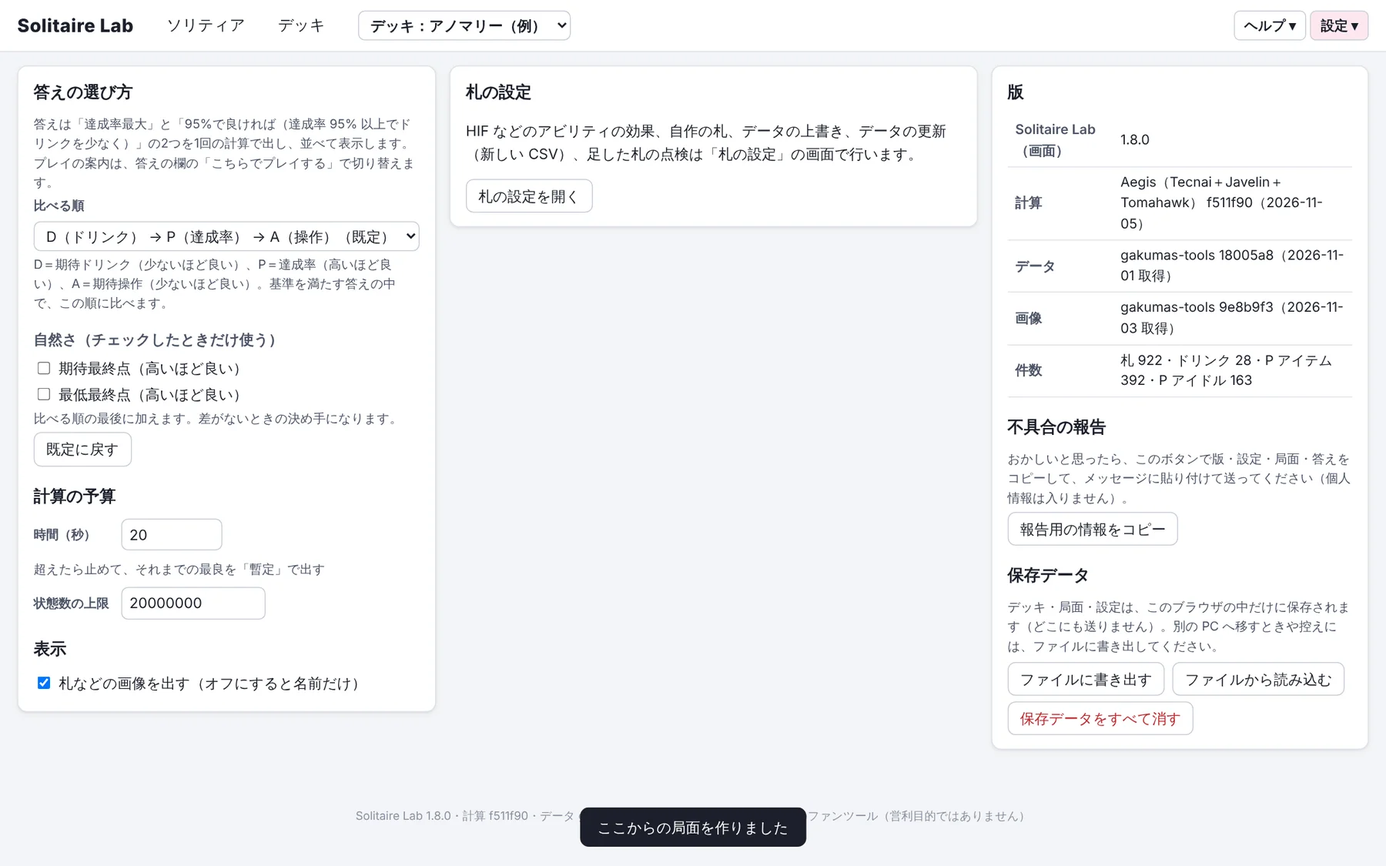
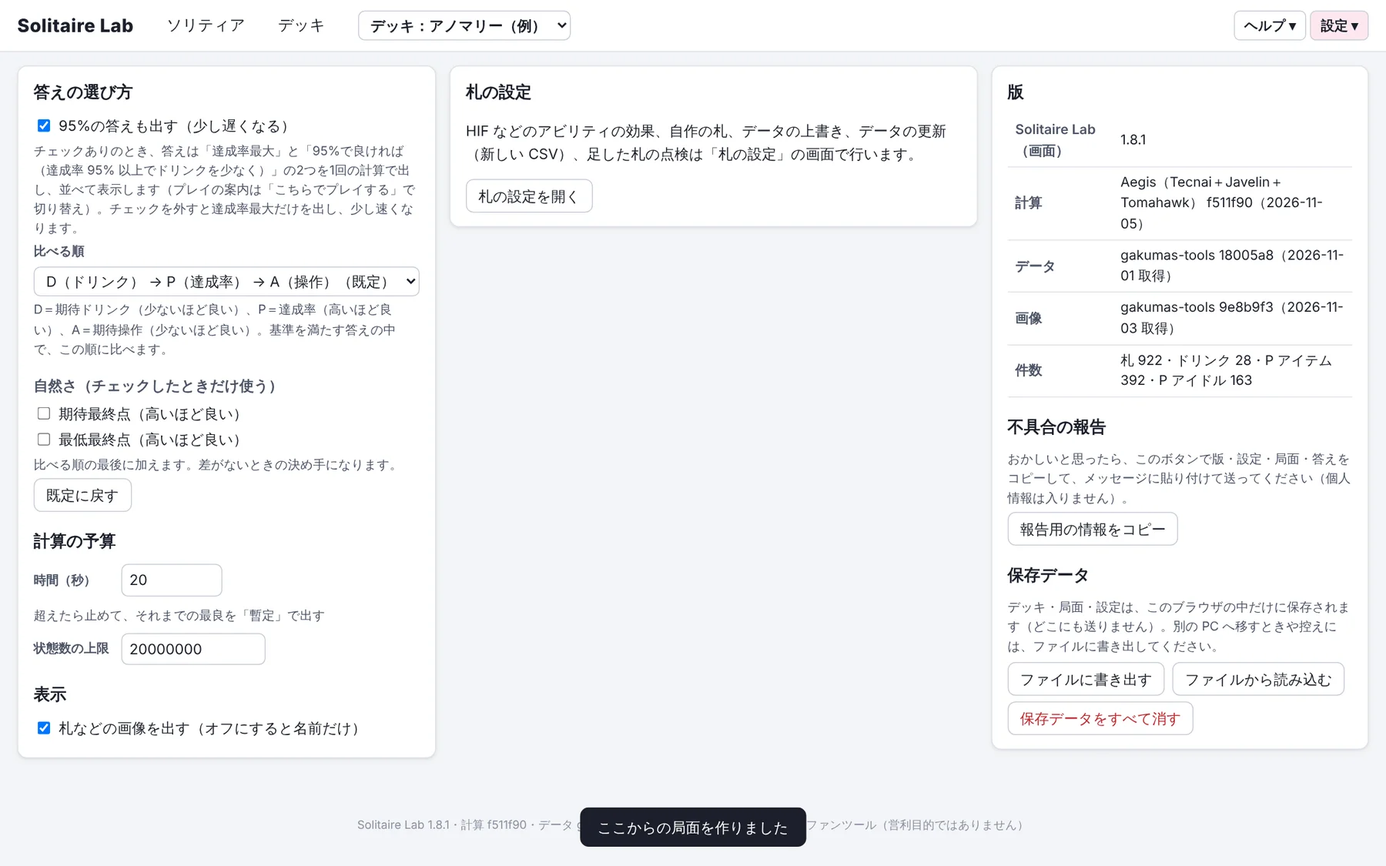
Solitaire Lab 1.8.1

Changed region(s): [[0.0, 0.1244, 0.3111, 0.8711], [0.5911, 0.9333, 0.7467, 0.9644], [0.2489, 0.9333, 0.4044, 0.9644]]

diff --git a/js/turn.js b/js/turn.js
@@ -63,7 +63,7 @@ export function renderTurn(root, rerender) {
     if (k === 'held') list.sort((a, b) => P.held.indexOf(a.uid) - P.held.indexOf(b.uid));
     const over = limit !== null && list.length > limit;
     const box = h('div.zone', {class: k + (over ? ' over' : '') + (!list.length && k !== 'hand' && k !== 'held' ? ' empty' : ''), 'data-zone': k},
-      h('div.zt', {}, h('b', title), h('span.cnt', {class: over ? 'bad' : ''}, limit !== null ? `${list.length} / ${limit}` : `${list.length}枚`), hint && h('span.hint', hint)),
+      h('div.zt', {}, h('b', title), h('span.cnt', {class: over ? 'bad' : ''}, limit !== null ? `${list.length} / ${limit}` : `${list.length}枚`), hint && qtip(hint)),
       h('div.zc', {}, list.length ? list.map(en => cardTile(en, {draggable: true, size, marks: marksFor(en), onclick: e => cardMenu(e, en)}))
         : h('span.drop', k === 'hand' ? '山札の札を押して「手札へ」、またはここへドラッグ' : 'ここへドラッグ')));
     box.addEventListener('dragover', e => { e.preventDefault(); box.classList.add('dragover'); });
@@ -134,7 +134,7 @@ export function renderTurn(root, rerender) {
         pt('確率100%で届く最大', r.sure, '引きが一番悪くても届く点'),
         pt('50%で届く最大', q50?.score ?? null, '達成率50%以上で届く一番高い点'),
         pt('最大', r.max, '一番よい引きのときに取れる点'),
-        h('span.hint', `${(r.ms / 1000).toFixed(1)}秒` + (r.exact ? '' : '・計算を絞った範囲での値（本当はこれ以上のことがある）'))),
+        h('span.hint', `${(r.ms / 1000).toFixed(1)}秒`, r.exact ? null : qtip('「以上」は、計算を絞った範囲での値という意味です（本当はこれより高いことがあります）'))),
       old && h('p.hint', '局面を変えました。この値は前の局面のものです。'),
       // 押して目標点に入れた値が、計算を絞った範囲の値（厳密でない）なら、その旨を出す。目標点を手で書き換えたら消える
       TT.picked && !TT.picked.exact && p.target === TT.picked.v && h('p.warnline.ttpicked', `目標点 ${TT.picked.v.toLocaleString('ja-JP')}点（${TT.picked.label}）は、計算を絞った範囲での値です。本当の値はこれより高いことがあります。`),
@@ -145,21 +145,19 @@ export function renderTurn(root, rerender) {
 
   // P アイテムの入力欄：デッキの P アイテムのうち、入力の要るもの（発動済みの回数・カウンタ。エンジンの pItemInputs）と、試作・未対応の注記があるものだけ出す
   function itemBox() {
-    let perUse = false;
     const rows = dk.items.map(id => {
       const it = D.items.find(x => x.id === id), inf = itemInputs(id);
       const st = (P.itemState[id] ||= {counter: 0, fired: []});
       const slots = inf ? inf.inputs.filter(x => x.key === 'fired') : it?.limit ? [{key: 'fired', max: it.limit}] : [];
       const hasCounter = inf ? inf.inputs.some(x => x.key === 'counter') : !!it?.counter;
       if (!slots.length && !hasCounter && !inf?.note && inf?.supported !== false) return null;
-      if (slots.some(x => x.enthusiasmBuffPerUse)) perUse = true;
       const setFired = (i, v) => { st.fired = slots.map((y, j) => j === i ? Math.max(0, Math.min(y.max, v ?? 0)) : firedOf(st, j, y.max)); delete st.remaining; touch(); };
       return h('div.itemrow', {}, pic('items', id, it?.name || '?', 32), h('span.inm', it?.name),
         slots.map((x, i) => num(slots.length > 1 ? `発動済みの回数（${i + 1}）` : '発動済みの回数', firedOf(st, i, x.max), v => setFired(i, v), {min: 0, max: x.max, width: 4, hint: '/' + x.max})),
         slots.length ? qtip('ソリティアを始めるまでに、この P アイテムの効果が発動した回数（上限まで発動したら、それ以上は発動しない）') : null,
         hasCounter && num('カウンタ', st.counter, v => { st.counter = v ?? 0; touch(); }, {min: 0, width: 4}),
         inf?.note && h('small.unsup', {title: inf.note}, '試作・未検証'),
-        slots.some(x => x.enthusiasmBuffPerUse) && firedOf(st, 0, slots[0].max) > 0 && h('small.hint', `発動した分（＋${Math.round(slots.reduce((a, x, i) => a + (x.enthusiasmBuffPerUse || 0) * firedOf(st, i, x.max), 0) * 100)}%）は、ゲームの熱意倍率の表示に入っています。計算では足しません`),
+        slots.some(x => x.enthusiasmBuffPerUse) && firedOf(st, 0, slots[0].max) > 0 && qtip(`発動した分（＋${Math.round(slots.reduce((a, x, i) => a + (x.enthusiasmBuffPerUse || 0) * firedOf(st, i, x.max), 0) * 100)}%）は、ゲームの熱意倍率の表示に入っています。計算では足しません`),
         inf && !inf.supported && h('small.unsup', '計算は未対応：' + (inf.problems[0] || '')));
     }).filter(Boolean);
     // ソリティアの前に使って、効果が残る札（奇跡を起こした一番星）：デッキにあるときだけ。使ったら、効果が働いた回数を入れる
@@ -183,9 +181,7 @@ export function renderTurn(root, rerender) {
     const stamina = dk.items.some(staminaTriggered);
     if (!rows.length && !stamina) return null;
     return h('div.items', {}, h('h4', rows.length > dk.items.length || pre.length ? 'P アイテム・札の効果' : 'P アイテム'), rows,
-      stamina && h('div.hudrow', {}, field('コストを0にする残り回数', 'nullifyCostCards'),
-        h('span.hint', 'ソリティアを始める前に全身全霊+ などを使ったときの、コスト（体力を含む）が0になる残りの回数。残りがある間は、体力が減ったときの効果が発動しません。')),
-      perUse && h('p.hint', '熱意倍率の欄には、ゲームの表示の値（発動済みの分の熱意倍率を含む）を入れてください。'));
+      stamina && h('div.hudrow', {}, field('コストを0にする残り回数', 'nullifyCostCards', {tip: 'ソリティアを始める前に全身全霊+ などを使ったときの、コスト（体力を含む）が0になる残りの回数。残りがある間は、体力が減ったときの効果が発動しません'})));
   }
 
   function moreBox() {
@@ -193,9 +189,8 @@ export function renderTurn(root, rerender) {
     return h('div.more', {},
       h('div.hudrow', {},
         h('label.hf', {}, h('span.sl', '直前の指針'), h('select', {onchange: e => setp('prevStance')(e.target.value)}, [['none', 'なし'], ...STANCES].map(([v, t]) => h('option', {value: v, selected: p.prevStance === v}, t)))),
-        field('スコア上昇', 'scoreBuff', {step: 5, pct: true}), field('残りターン', 'turnsRemaining'), field('ドリンクの上限', 'drinkCap'), field('ゲームの山札', 'gameDeckCount')),
+        field('スコア上昇', 'scoreBuff', {step: 5, pct: true}), field('残りターン', 'turnsRemaining'), field('ドリンクの上限', 'drinkCap', {tip: 'このソリティアで使ってよいドリンクの本数（空欄＝上限なし）'}), field('ゲームの山札', 'gameDeckCount', {tip: 'ゲームの画面の山札の枚数。入れると、振り分けた山札の枚数と照らし合わせます'})),
       h('div.hudrow', {}, field('温存の回数', 'preservationTimes'), field('強気の回数', 'strengthTimes'), field('のんびりの回数', 'leisureTimes'), field('札の効果での指針変更', 'directStanceTimes')),
-      h('p.hint', 'ドリンクの上限：このソリティアで使ってよい本数（空＝上限なし）。ゲームの山札：入れると、振り分けた山札の枚数と照らし合わせます。'),
       h('h4', '継続効果（使った札が残す効果）'),
       P.registered.map((r, i) => !D.cardById.get(r.card)?.registers?.limit && h('div.itemrow', {}, pic('cards', r.card, D.cardById.get(r.card)?.name || '?', 32), h('span.inm', D.cardById.get(r.card)?.name),
         num('カウンタ', r.counter, v => { r.counter = v ?? 0; touch(); }, {min: 0, width: 4, hint: '4なら次の札で発動'}),
@@ -234,12 +229,11 @@ export function renderTurn(root, rerender) {
   const piles = [['discard', '捨て札'], ['removed', '除外']].filter(([k]) => !isEmpty(k));
   const left = h('div.turnleft', {}, carry, hud,
     h('section.panel.board', {},
-      isEmpty('held') ? zoneBox('hand', '手札', {size: 'large', limit: 5}) : h('div.handrow', {}, zoneBox('hand', '手札', {size: 'large', limit: 5}), zoneBox('held', '保留', {size: 'small', limit: 2})),
-      !isEmpty('deck') && zoneBox('deck', '山札', {hint: '＝デッキ全体 − ほかの置き場（自動）。札を押して「手札へ」'}),
+      isEmpty('held') ? zoneBox('hand', '手札', {size: 'large', limit: 5, hint: '札を押すと置き場を選べます（キー 1:手札 2:保留 3:捨て札 4:除外 0:山札）。ドラッグでも動かせます'}) : h('div.handrow', {}, zoneBox('hand', '手札', {size: 'large', limit: 5, hint: '札を押すと置き場を選べます（キー 1:手札 2:保留 3:捨て札 4:除外 0:山札）。ドラッグでも動かせます'}), zoneBox('held', '保留', {size: 'small', limit: 2})),
+      !isEmpty('deck') && zoneBox('deck', '山札', {hint: '山札＝デッキ全体 − ほかの置き場（自動で数えます）。札を押して「手札へ」'}),
       piles.length ? h('div.pilerow', {class: piles.length === 1 ? 'one' : ''}, piles.map(([k, t]) => zoneBox(k, t))) : null,
       empties.length ? h('div.emptyzones', {}, h('span.sl', '空の置き場'), empties.map(([k, t]) => miniZone(k, t))) : null,
-      addBox,
-      h('p.hint', '札を押すと置き場を選べます（キー 1:手札 2:保留 3:捨て札 4:除外 0:山札）。ドラッグでも動かせます。')));
+      addBox));
   const right = h('aside.answer', {});
   renderAnswer(right, rerender);
   root.append(h('div.turn', {}, left, right));

diff --git a/js/answer.js b/js/answer.js
@@ -2,7 +2,7 @@
 // プレイの案内は同じ欄の中で進む（「使った」→「何を引いた？」→ 次の手）。比較表・自然さ・答えの確かさは「詳しく」にたたむ。
 import {D} from './data.js';
 import {S, save, deck, STANCES} from './store.js';
-import {h, pic, fmt, toast} from './ui.js';
+import {h, pic, fmt, toast, qtip} from './ui.js';
 import {RUN, startRun, cancelRun, betterThan, resumeRun, canResume, phaseSig} from './run.js';
 import {validate, entries, zoneOf} from './phase.js';
 import {STATUS, orderText, critText} from './result.js';
@@ -83,10 +83,9 @@ function nextView(R, interim) {
   const b = R.best;
   return h('div.nextv', {},
     h('div.nmain', {}, R.nextIcon ? pic(R.nextIcon.kind, R.nextIcon.id, R.next, 64) : null, h('div.ntext', R.next || '—')),
-    b && h('div.kpis', {}, kpi('達成率', b.pText), kpi('ドリンク', num3(b.dNum), '本'), kpi('手数', num3(b.aNum), '回')),
-    b && !interim && h('div.kpinote', 'ドリンク・手数は、引く札によって変わる数の見込み（平均）です。'));
+    b && h('div.kpis', {}, kpi('達成率', b.pText, '', '目標点に届く確率'), kpi('ドリンク', num3(b.dNum), '本', 'このあと使うドリンクの本数の見込み（引く札によって変わる数の平均）'), kpi('手数', num3(b.aNum), '回', 'このあと札やドリンクを使う回数の見込み（平均）')));
 }
-const kpi = (label, v, unit = '') => h('div.kpi', {}, h('div.kl', label), h('div.kv', v, h('small', unit)));
+const kpi = (label, v, unit = '', tip = '') => h('div.kpi', {}, h('div.kl', label, tip && qtip(tip)), h('div.kv', v, h('small', unit)));
 
 function resultView(R, rerender, {checkList} = {}) {
   // エンジンが「全体で最適とは証明できていない」と言うときは、最適と出さない（optimalityProven、AEGIS_SPEC.md 8章）
@@ -99,14 +98,15 @@ function resultView(R, rerender, {checkList} = {}) {
   add(h('div.ansHead', {}, h('span.status', {class: stCls, title: stDesc}, stName + (R.canceled ? '（中止）' : '')),
     h('span.hint', `${R.criterion === 'max' ? '達成率最大の答え' : `${R.criterion}%で良ければの答え`}・${(R.ms / 1000).toFixed(1)}秒`)));
   for (const n of R.notes || []) add(h('p.warnline', n));   // 計算の部品の注意書き
-  if (R.followed) add(h('p.hint', '前の局面の最適の答えから読み出しました（計算し直していません。答えは計算し直したときと同じです）。'));
-  if (R.keptPrev) add(h('p.hint', '予算を増やして計算し直しましたが、前の答えより良い答えは見つからなかったので、前の答えを残しました。'));
+  const tags = [R.followed && ['前の答えから即答', '前の局面の答えから読み出しました（計算し直していません。答えは計算し直したときと同じです）'],
+    R.retargeted && ['前の計算を使用', '同じ局面の前の計算を使って、目標・基準を変えた答えを出しました（答えは計算し直したときと同じです）'],
+    R.keptPrev && ['前の答えを残した', '予算を増やして計算し直しましたが、前の答えより良い答えは見つからなかったので、前の答えを残しました']].filter(Boolean);
+  if (tags.length) add(h('div.tags', {}, tags.map(([t, d]) => h('span.tag', {title: d}, t))));
   // 達成率を指定した計算（95% など）で、その達成率に届かない暫定の答え
   if (R.meetsAlpha === false && R.criterion !== 'max') add(h('p.warnline', `この答えは、指定した達成率 ${R.criterion}% に届いていません。時間内に見つかった中で一番よい手順です。「続きから計算する」で届く手順が見つかることがあります。`));
   const ms = R.maxScore;
   if (b && b.pNum === 0 && kind === 'optimal') add(h('p.warnline', '目標点に届く手順がありません（届く最大 0%）。' + (ms?.exact && !ms.reached ? `どう引いても、最大で ${fmt(ms.value)} 点です。` : '')));
   else if (ms?.exact && !ms.reached) add(h('p.hint', `どう打っても、取れる点は最大で ${fmt(ms.value)} 点です（目標点に届かない）。`));
-  if (R.retargeted) add(h('p.hint', '同じ局面の前の計算を使って、目標・基準を変えた答えを出しました（答えは計算し直したときと同じです）。'));
   // プレイの案内（同じ欄の中で進む）
   if (R.tree) {
     S.play ||= {steps: []};
@@ -120,7 +120,7 @@ function resultView(R, rerender, {checkList} = {}) {
         makeErr && h('p.warnline', '作れませんでした：' + makeErr));
     } else if (waiting) {
       add(h('div.lbl', '何を引きましたか？'),
-        h('p.hint', '使った後の手札（全部）です。色の枠が、ドロー札（新しく来た札）です。'),
+        h('p.hint', '使った後の手札（色の枠＝ドロー札）'),
         h('div.draws', node.edges.map((e, i) => h('button.drawbtn', {onclick: () => push({type: 'draw', i, label: drawnText(e.drawn)})},
           h('div.dpics', (e.hand || e.drawn).slice(0, 6).map(x => h('span.hcard', {class: x.isNew !== false ? 'new' : 'old'}, pic('cards', x.id, x.name, 34)))),
           h('b', drawnText(e.drawn)),
@@ -150,16 +150,14 @@ function resultView(R, rerender, {checkList} = {}) {
     // メモリの上限で止まり、試せる段も残っていない：時間を足しても良くならないので、計算し直すボタンは出さず、局面を軽くする方法を案内する
     const memStop = !R.resumable && /MEMORY_LIMIT|GROWTH_LIMIT/.test(R.resumeReason || '');
     if (memStop) { add(h('div.budget', {},
-      h('p.hint', {title: R.resumeReason}, 'これ以上計算しても、このブラウザでは答えを良くできません（使えるメモリの上限）。今の答えは、ここまでに見つかった一番よい手順です。'),
-      h('p.hint', '引いた札が決まったら「ここから局面を作る」で計算し直すと、最善の手が分かることがあります。「詳しい条件」でドリンクの上限を入れると、計算が軽くなります。'))); }
+      h('p.hint', 'このブラウザでは、これ以上良くできません（メモリの上限）', qtip('今の答えは、ここまでに見つかった一番よい手順です。引いた札が決まったら「ここから局面を作る」で計算し直すと、最善の手が分かることがあります。「詳しい条件」でドリンクの上限を入れると、計算が軽くなります。（' + (R.resumeReason || '') + '）')))); }
     else add(h('div.budget', {},
-      b && b.pNum === 0 ? h('p.warnline', 'この予算の中では、目標点に届く手順がまだ見つかっていません（届かないと決まったわけではありません）。下のボタンで見つかることがあります。')
-        : h('p.hint', '時間内に見つけた答えです。もっと良い答えがあるかもしれません（計算の時間は「設定 ▾」→「設定」で変えられます）。'),
+      b && b.pNum === 0 ? h('p.warnline', 'まだ目標点に届く手順が見つかっていません', qtip('届かないと決まったわけではありません。「続きから計算する」で見つかることがあります'))
+        : null,
       resumeOk
         ? h('button.wide', {disabled: !!checkList?.querySelector?.('.err'), onclick: () => resumeRun(addSec)}, `続きから計算する（＋${addSec}秒。ここまでの計算を使う）`)
         : h('button.wide', {disabled: !!checkList?.querySelector?.('.err'), onclick: () => recompute({budgetSec: sec, maxStates: states}, {keep: true})}, `予算を2倍にして計算し直す（${sec}秒・状態 ${fmt(states)}）`),
-      !resumeOk && R.resumeReason && h('p.hint', '続きからはできません：' + R.resumeReason),
-      R.resumedSec ? h('p.hint', `ここまでの計算：${R.budgetSec}秒（うち続きから ${R.resumedSec}秒）`) : null));
+      !resumeOk && R.resumeReason && h('p.hint', '続きからはできません', qtip(R.resumeReason))));
   }
 
 

diff --git a/js/phase.js b/js/phase.js
@@ -62,14 +62,14 @@ export function validate(dk, P) {
   for (const id of dk.items) if (/strengthTimes>=4/.test(D.items.find(x => x.id === id)?.text || '') && p.strengthTimes < 4) info(`${D.items.find(x => x.id === id).name}：強気の回数が ${p.strengthTimes} 回なので、まだ発動しません（4回以上で発動）`);
   // 全力値：全力値を使う札があるのに空欄なら、0 として計算する（全力値がコストの札は使えない）
   const fpn = fpNeeds(dk, P);
-  if (fpn.fp && (p.fullPowerCharge === null || p.fullPowerCharge === undefined)) warn('全力値が空欄です。0 として計算します（アンダンテなど、全力値がコストの札は使えません）。ゲームの画面の全力値を入れてください');
-  if (fpn.cfp && (p.cumulativeFullPowerCharge === null || p.cumulativeFullPowerCharge === undefined)) info('累計の全力値が空欄です。仮に 7 として計算します（ブースト・ラッシュなど、累計を使う札の点は目安になります）');
+  if (fpn.fp && (p.fullPowerCharge === null || p.fullPowerCharge === undefined)) warn('全力値が空欄です（0 として計算。全力値がコストの札は使えません）');
+  if (fpn.cfp && (p.cumulativeFullPowerCharge === null || p.cumulativeFullPowerCharge === undefined)) info('累計の全力値が空欄です（仮に 7 として計算）');
   // 入力の食い違い：熱意倍率を上げる P アイテム（原点へのチケットなど）が発動済みなのに、熱意倍率がその分より小さい
   for (const id of dk.items) {
     const inf = itemInputs(id); if (!inf) continue;
     const st = P.itemState?.[id] || {};
     const add = inf.inputs.filter(x => x.key === 'fired').reduce((a, x, i) => a + (x.enthusiasmBuffPerUse || 0) * firedOf(st, i, x.max), 0);
-    if (add > 0 && (p.enthusiasmBuff ?? 1) + 1e-9 < 1 + add) warn(`${inf.name}：発動済みの分だけで熱意倍率が＋${Math.round(add * 100)}% になるはずですが、熱意倍率が＋${Math.round(((p.enthusiasmBuff ?? 1) - 1) * 100)}% です（ゲームの表示の値を入れてください）`);
+    if (add > 0 && (p.enthusiasmBuff ?? 1) + 1e-9 < 1 + add) warn(`熱意倍率（＋${Math.round(((p.enthusiasmBuff ?? 1) - 1) * 100)}%）が、${inf.name}の発動分（＋${Math.round(add * 100)}%）より小さいです`);
   }
   return out;
 }

diff --git a/manual/index.html b/manual/index.html
@@ -51,7 +51,7 @@
 <section class="slide cover">
   <h1>Solitaire Lab 詳細マニュアル</h1>
   <div class="sub">学園アイドルマスターの「ソリティア」で、<br>どの順番で札を使えば目標点に届きやすいかを教えてくれるツールです。</div>
-  <div class="ver">版 1.8.0 ・ ← → キー、または画面の左右を押してページをめくります</div>
+  <div class="ver">版 1.8.1 ・ ← → キー、または画面の左右を押してページをめくります</div>
 </section>
 
 <section class="slide">
@@ -204,7 +204,7 @@
       <li><b>ドリンク</b>：このあと使うドリンクの、平均の本数です。</li>
       <li><b>手数</b>：このあと札やドリンクを使う、平均の回数です（ドリンク・手数は、引く札によって変わる数の見込みです）。</li>
       <li>左上の「<b>最善（確定）</b>」は、すべての手順を調べ終わった、一番よい結果という意味です。</li>
-      <li>答えは「<b>達成率最大</b>」が主で、その下に「<b>95%で良ければ</b>」（達成率 95% 以上でドリンクを少なくする答え）が並びます。「こちらでプレイする」を押すと、プレイの案内がその答えに切り替わります（2つが同じときは1つだけ出ます）。</li>
+      <li>答えは「<b>達成率最大</b>」が主で、その下に「<b>95%で良ければ</b>」（達成率 95% 以上でドリンクを少なくする答え）が並びます。「こちらでプレイする」を押すと、プレイの案内がその答えに切り替わります（2つが同じときは1つだけ出ます）。速く計算したいときは、「設定 ▾」→「設定」の「95%の答えも出す」のチェックを外すと、達成率最大だけになります。</li>
     </ul>
     <div class="tip">ヒント：「同じ評価の別の手順があります」は、「▸ 詳しく」の中に出ます。</div>
   </div><div class="pic"><img src="img/09b-answer-panel.webp" alt="計算結果"></div></div>

diff --git a/js/settings.js b/js/settings.js
@@ -24,7 +24,8 @@ export function renderSettings(root, rerender) {
   root.append(h('div.cols.setcols', {},
     h('section.panel', {},
       h('h2', '答えの選び方'),
-      h('p.note', '答えは「達成率最大」と「95%で良ければ（達成率 95% 以上でドリンクを少なく）」の2つを1回の計算で出し、並べて表示します。プレイの案内は、答えの欄の「こちらでプレイする」で切り替えます。'),
+      h('label.f', {}, h('input', {type: 'checkbox', checked: st.both !== false, onchange: e => { st.both = e.target.checked; touch(); }}), '95%の答えも出す（少し遅くなる）'),
+      h('p.note', 'チェックありのとき、答えは「達成率最大」と「95%で良ければ（達成率 95% 以上でドリンクを少なく）」の2つを1回の計算で出し、並べて表示します（プレイの案内は「こちらでプレイする」で切り替え）。チェックを外すと達成率最大だけを出し、少し速くなります。'),
       sel('比べる順', st.order, ORDERS.map(o => [o, orderText(o) + (o === 'dpa' ? '（既定）' : '')]), v => { st.order = v; touch(); }),
       h('p.note', 'D＝期待ドリンク（少ないほど良い）、P＝達成率（高いほど良い）、A＝期待操作（少ないほど良い）。基準を満たす答えの中で、この順に比べます。'),
       h('h3', '自然さ（チェックしたときだけ使う）'),

diff --git a/js/run.js b/js/run.js
@@ -50,8 +50,8 @@ export function startRun(over = {}, {keep = false} = {}) {
   const {setup, target} = buildSetup({deck: dk, phase: P, cards: cardsMap(), items: itemsFor(deck())});
   const phase0 = structuredClone(P);   // 計算した局面（次のターンの局面を作るときの元）
   const st = S.settings;
-  // 達成の基準は「達成率最大」と「95%」を並べて出す形に固定（1.8.0、利用者の決定。設定の基準はやめた）
-  const opts = {criterion: '95', both: true, order: st.order, extras: ['ev', 'floor'].filter(k => st.extras[k]), maxMs: Math.max(1, over.budgetSec ?? st.budgetSec) * 1000, maxStates: over.maxStates ?? st.maxStates};
+  // 達成の基準：設定「95%の答えも出す」（既定オン）なら達成率最大と95%を並べて出す。外すと達成率最大だけ（速い）。1.8.1、利用者の決定
+  const opts = {...(st.both === false ? {criterion: 'max'} : {criterion: '95', both: true}), order: st.order, extras: ['ev', 'floor'].filter(k => st.extras[k]), maxMs: Math.max(1, over.budgetSec ?? st.budgetSec) * 1000, maxStates: over.maxStates ?? st.maxStates};
   lastOpts = opts;
   Object.assign(RUN, {status: 'running', stage: '準備中', started: Date.now(), interim: null, error: null, prev});
   S.result = null; S.play = null; save();

diff --git a/style.css b/style.css
@@ -317,3 +317,6 @@ button.ttv b { font-size: 16px; }
 .altans { margin: 10px 0; padding: 8px 10px; border: 1px solid var(--line); border-radius: 8px; background: var(--bg); display: flex; flex-wrap: wrap; gap: 6px 10px; align-items: center; }
 .altans .altline { flex: 1 1 260px; }
 .altans .altnext { color: var(--sub); }
+/* 答えの見出しの小さな印（即答・前の計算を使用 など） */
+.tags { display: flex; flex-wrap: wrap; gap: 6px; margin: 4px 0 6px; }
+.tag { font-size: 12px; padding: 2px 8px; border-radius: 999px; background: var(--infobg); color: var(--info); cursor: help; }

diff --git a/manual/summary.html b/manual/summary.html
@@ -52,7 +52,7 @@
 <section class="slide cover">
   <h1>Solitaire Lab</h1>
   <div class="sub">学園アイドルマスターの「ソリティア」で、<br>どの順番で札を使えば目標点に届きやすいかを教えてくれるツールです。</div>
-  <div class="ver">概要（6ページ） ・ 版 1.8.0 ・ くわしい使い方は「詳細マニュアル」をご覧ください</div>
+  <div class="ver">概要（6ページ） ・ 版 1.8.1 ・ くわしい使い方は「詳細マニュアル」をご覧ください</div>
 </section>
 
 <section class="slide">
